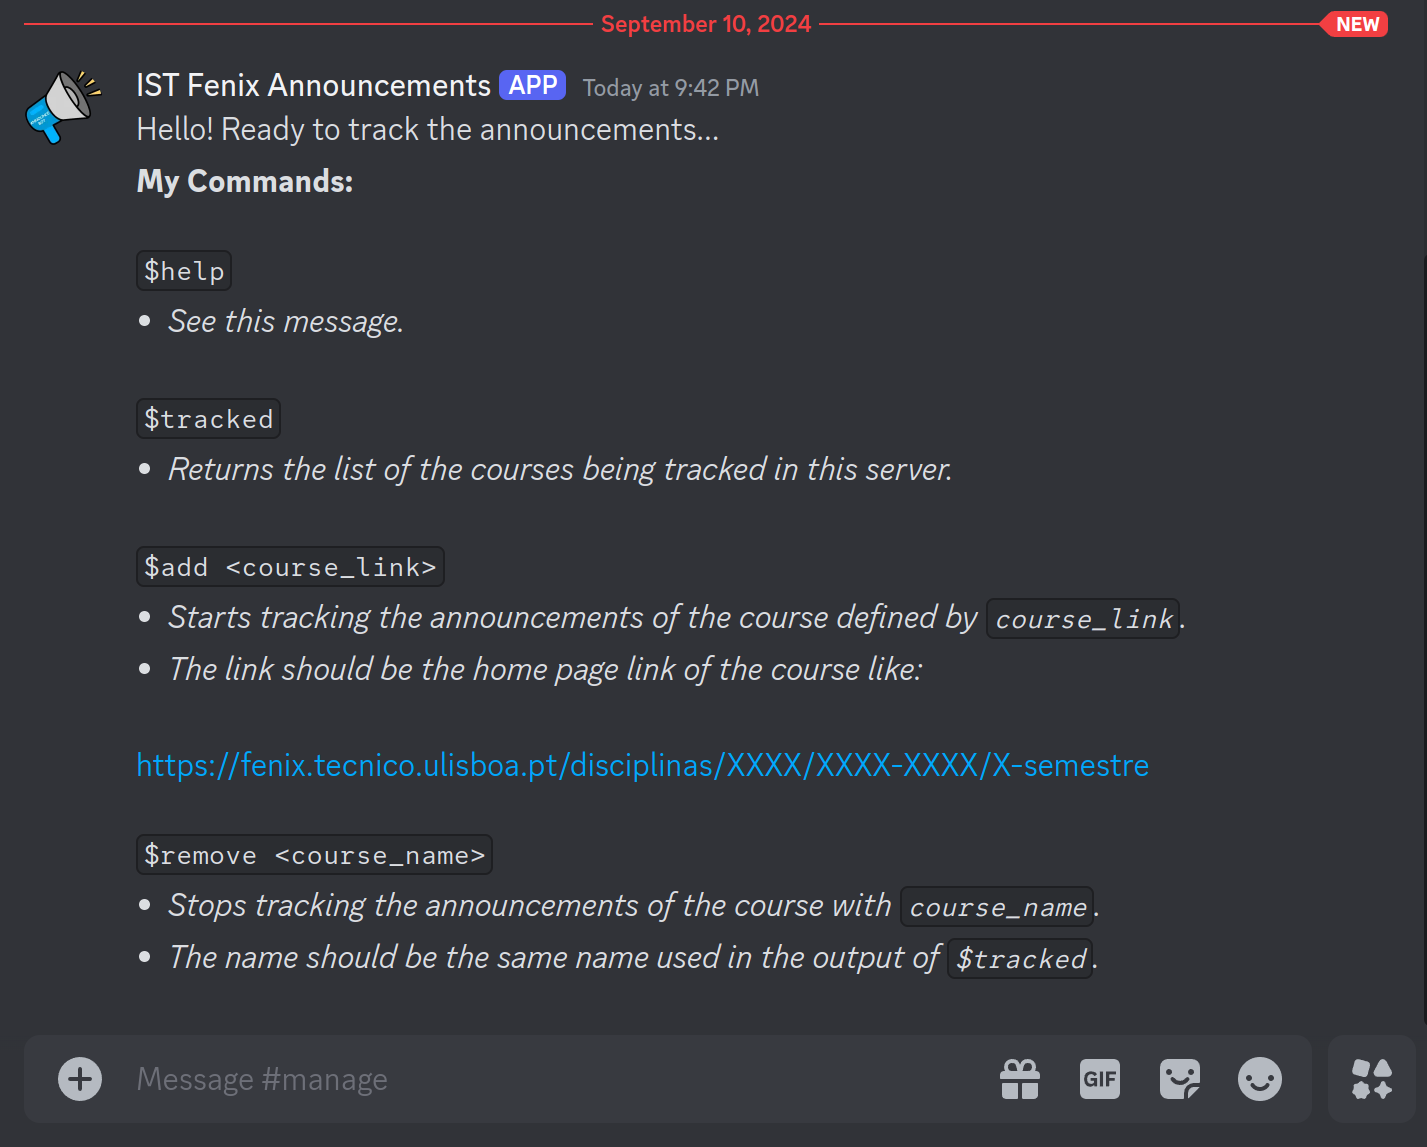
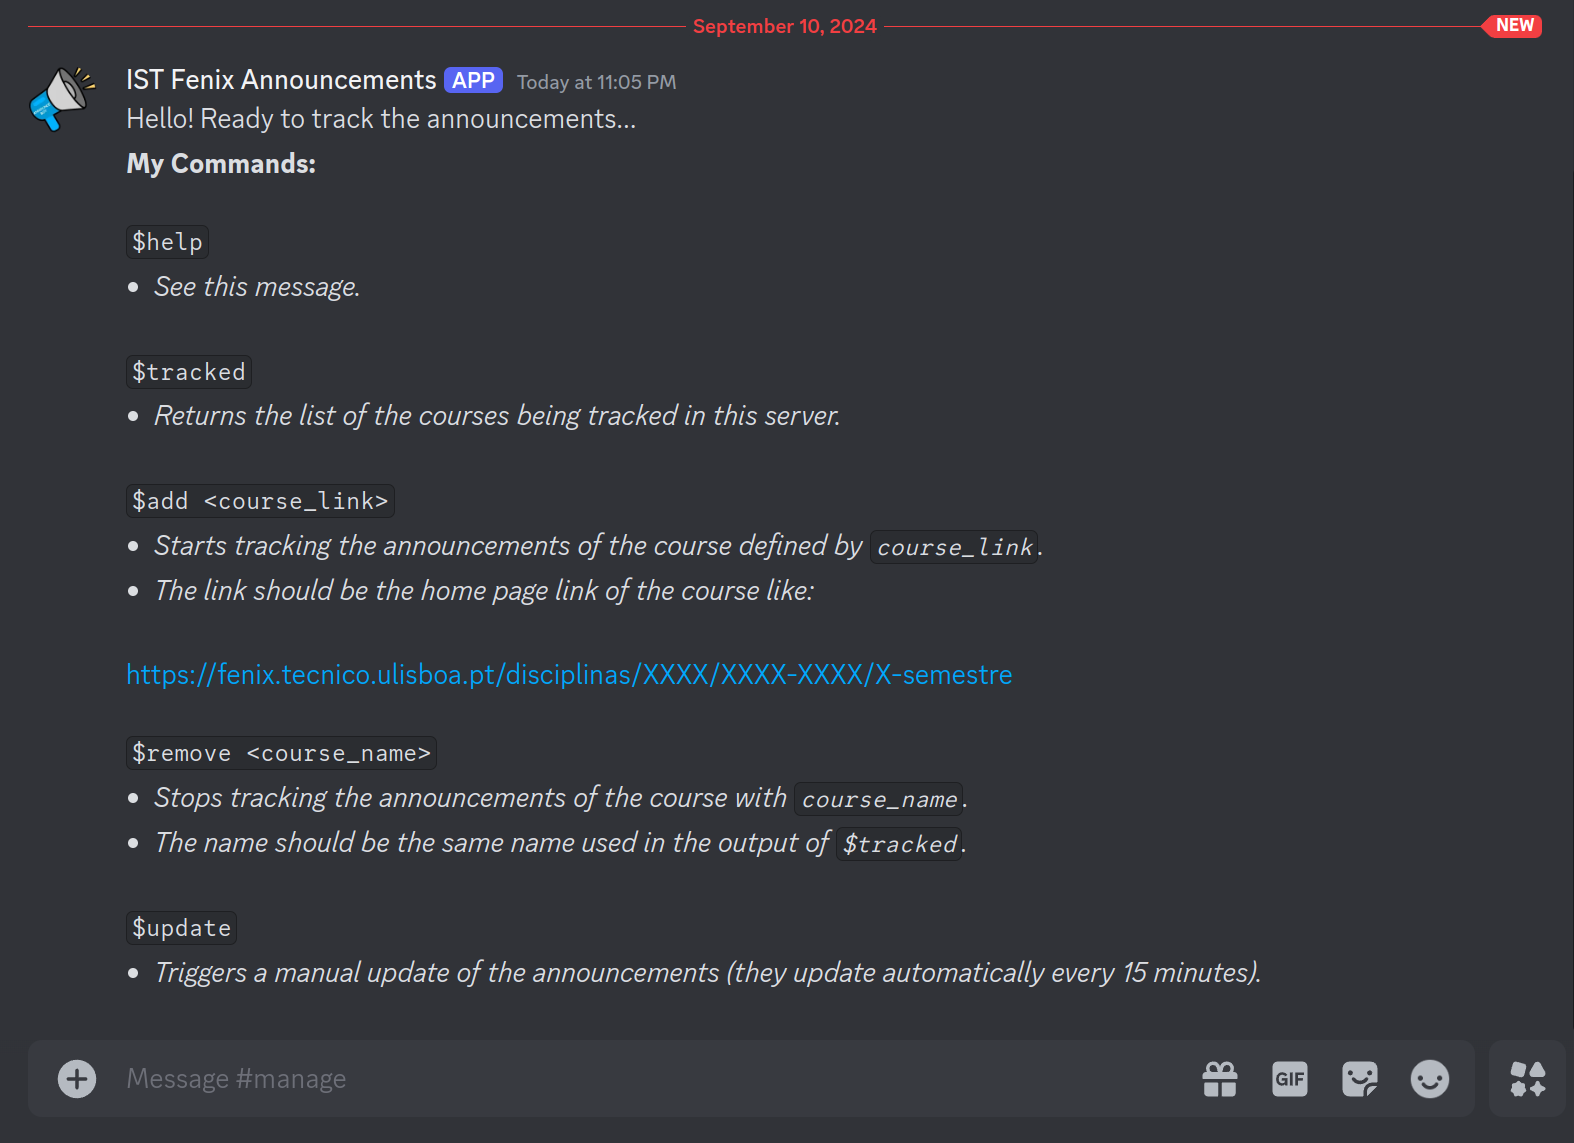
added update command

diff --git a/source/utils.py b/source/utils.py
@@ -76,9 +76,8 @@ async def delete_bot_category(guild: Guild):
     else:
         print(f"Category '{CATEGORY_NAME}' didn't exist, skipping deletion")
 
-async def delete_channel(
-    guild: Guild, channel_name: str
-) -> TextChannel:
+
+async def delete_channel(guild: Guild, channel_name: str) -> TextChannel:
     """Deletes a channel with `channel_name` in the current `guild` (under the bot category)"""
 
     channel_name = format_channel_name(channel_name)
@@ -86,18 +85,36 @@ async def delete_channel(
     category = discord.utils.get(guild.categories, name=CATEGORY_NAME)
 
     if category is None:
-        print(f"Category '{CATEGORY_NAME}' didn't exist, skipping channel '{channel_name}' deletion")
+        print(
+            f"Category '{CATEGORY_NAME}' didn't exist, skipping channel '{channel_name}' deletion"
+        )
         return
 
     existing_channel = discord.utils.get(category.channels, name=channel_name)
 
-    if existing_channel  is not None:
+    if existing_channel is not None:
         await existing_channel.delete()
         print(f"Channel '{channel_name}' was deleted")
     else:
         print(f"Channel '{channel_name}' didn't exist, skipping deletion")
 
-    
+
+async def get_channel(guild: Guild, channel_name: str) -> TextChannel:
+    """Returns the channel with `channel_name` inside the bot category"""
+
+    channel_name = format_channel_name(channel_name)
+
+    category = discord.utils.get(guild.categories, name=CATEGORY_NAME)
+
+    if category is None:
+        raise ValueError("Can't retrieve channel as category didn't exist.")
+
+    existing_channel = discord.utils.get(category.channels, name=channel_name)
+
+    if existing_channel is not None:
+        return existing_channel
+    else:
+        raise ValueError(f"Can't retrieve channel as '{channel_name}' didn't exist.")
 
 
 async def send_announcements_changes(
@@ -106,7 +123,11 @@ async def send_announcements_changes(
     """Send the messages informing the user of the latest changes in the announcements"""
 
     for change in changes:
-        await channel.send(get_alert_message(announcement=change["announcement"], action=change["action"]))
+        await channel.send(
+            get_alert_message(
+                announcement=change["announcement"], action=change["action"]
+            )
+        )
 
 
 #################### Sync ####################
@@ -117,24 +138,25 @@ def format_channel_name(channel_name: str) -> str:
 
     return channel_name.replace(" ", "-").lower()
 
+
 def get_init_message(course: Course) -> str:
     """Returns the formatted message for this course (used in the channel creation to display the course info)"""
 
-    header = f"## **[{course.name} CHANNEL] - {course.semester.replace("-","º ")} of {course.years.replace("-","/")}**"
+    header = f"## **[{course.name} CHANNEL] - {course.semester.replace('-','º ')} of {course.years.replace('-','/')}**"
 
     course_link = f"[Click here to see the course page.]({course.link})"
 
     footer = f"-# Currently there are {len(course.announcements)} announcements in this course."
 
     return header + "\n\n" + course_link + "\n\n" + footer
-   
+
 
 def get_alert_message(announcement: Announcement, action: AnnouncementActions) -> str:
     """Returns the formatted message for this announcement and action"""
 
     header = f"## **[{action.name} ANNOUNCEMENT] - {announcement.title}**"
 
-    footer = f"-# Published by {announcement.author} @ {announcement.pub_date.strftime("%H:%M of %A (%d/%m/%Y)")}."
+    footer = f"-# Published by {announcement.author} @ {announcement.pub_date.strftime('%H:%M of %A (%d/%m/%Y)')}."
 
     # Link doesn't make sense in the deleted action
     if action in (AnnouncementActions.ADDED, AnnouncementActions.UPDATED):

diff --git a/source/discord_bot/commands.py b/source/discord_bot/commands.py
@@ -1,10 +1,13 @@
 """ Contains the commands the bot answers to """
 
-from constants import CATEGORY_NAME, MANAGE_CHANNEL
+from datetime import datetime
+
+from constants import CATEGORY_NAME, MANAGE_CHANNEL, UPDATE_INTERVAL
 from discord.ext import commands
 from utils import (
     create_channel,
     delete_channel,
+    get_channel,
     get_init_message,
     send_announcements_changes,
 )
@@ -26,7 +29,7 @@ def in_allowed_category(ctx):
 async def help(ctx):
     """Displays bot commands"""
 
-    help_text = """
+    help_text = f"""
 **My Commands:**
 
 `$help` 
@@ -44,6 +47,9 @@ https://fenix.tecnico.ulisboa.pt/disciplinas/XXXX/XXXX-XXXX/X-semestre
 `$remove <course_name>` 
 - *Stops tracking the announcements of the course with `course_name`.* 
 - *The name should be the same name used in the output of `$tracked`.*
+
+`$update` 
+- *Triggers a manual update of the announcements (they update automatically every {UPDATE_INTERVAL} minutes).*
 """
 
     await ctx.send(help_text)
@@ -82,7 +88,9 @@ async def add(ctx, course_link: str):
 
         # Get the announcements changes and send the messages
         changes = course.update_announcements()
-        await channel.send(get_init_message(course))
+        await channel.send(
+            get_init_message(course)
+        )  # Done after the update (otherwise the length of the announcements list will be 0)
         await send_announcements_changes(channel=channel, changes=changes)
 
         await ctx.send("Course added. Check the new channel with the announcements.")
@@ -109,3 +117,25 @@ async def remove(ctx, course_name: str):
         await ctx.send(str(e) + "\n")
 
         await bot.get_command("tracked").invoke(ctx)
+
+
+@bot.command()
+@commands.check(in_allowed_category)
+async def update(ctx):
+    """Updates the announcements of each course"""
+
+    n_changes = 0
+    for course in db.get_courses_list(guild=ctx.guild):
+
+        changes = course.update_announcements()
+        await send_announcements_changes(
+            channel=await get_channel(guild=ctx.guild, channel_name=course.name),
+            changes=changes,
+        )
+
+        n_changes += len(changes)
+
+    manage_channel = await get_channel(guild=ctx.guild, channel_name=MANAGE_CHANNEL)
+    await manage_channel.send(
+        f"Updated announcements @ {datetime.now().strftime('%H:%M of %d/%m/%Y')} **({n_changes} changes)**"
+    )

diff --git a/source/constants.py b/source/constants.py
@@ -5,3 +5,6 @@ CATEGORY_NAME = "IST Announcements"
 
 MANAGE_CHANNEL = "manage"
 """ The manage channel, bot will only answer commands inside here """
+
+UPDATE_INTERVAL = 15  # minutes
+""" The interval between each automatic update"""

diff --git a/README.md b/README.md
@@ -25,6 +25,8 @@ Follow these steps:
 
 - `$remove <course_name>`: _Stops tracking the announcements of the course with `course_name`. The name should be the same name used in the output of `$tracked`._
 
+- `$update`: _Triggers a manual update of the announcements (they update automatically every `UPDATE_INTERVAL` minutes)._
+
 ## Example
 
 ![Bot startup message](assets/bot_example.png "Bot startup message")
